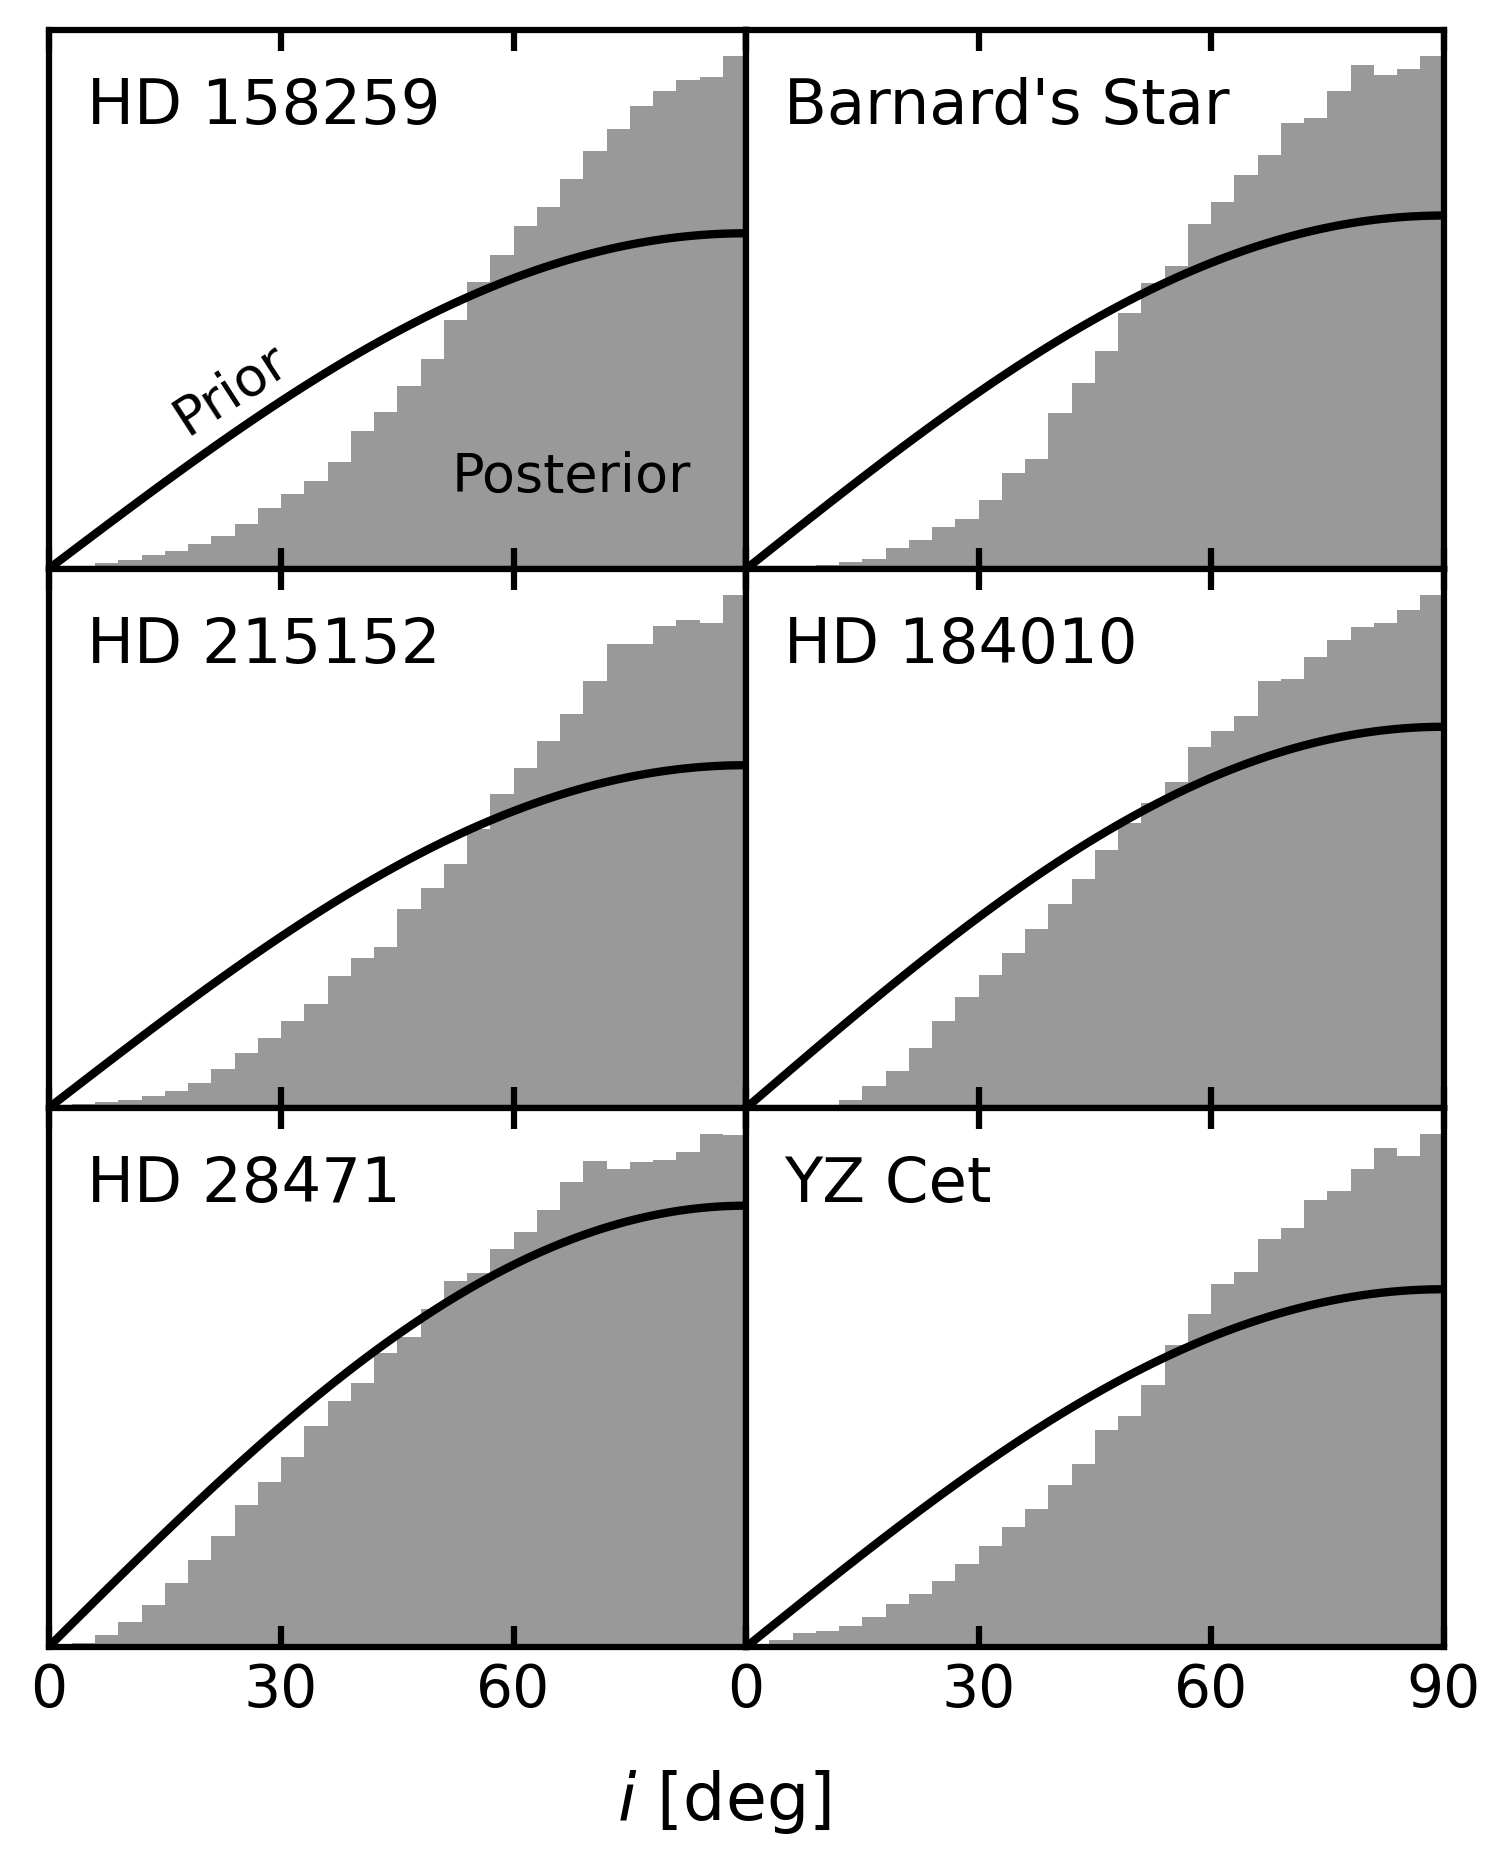
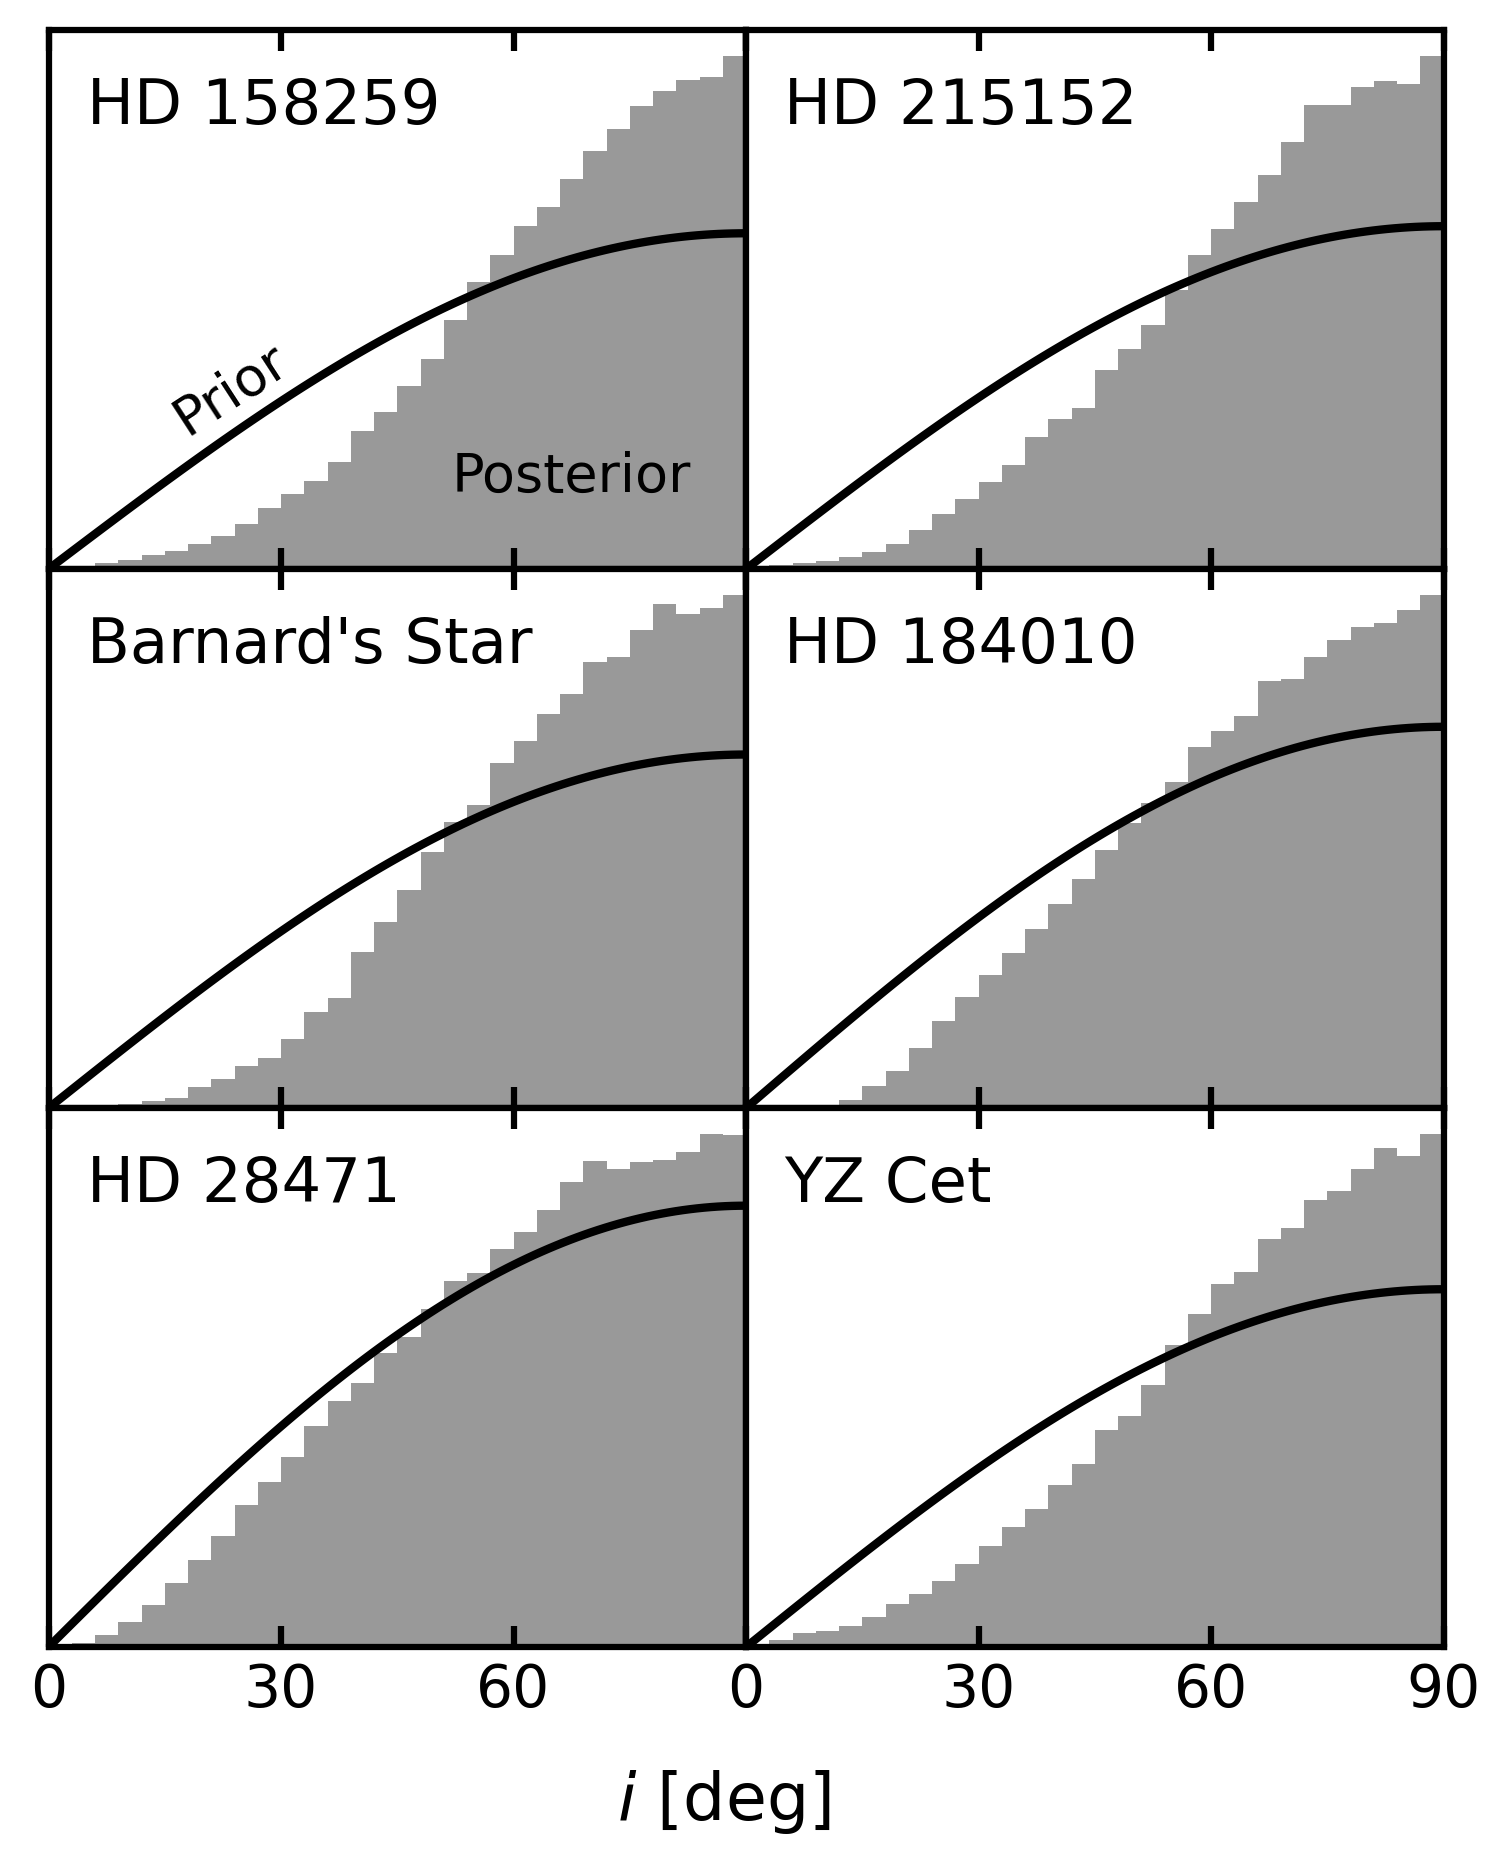
Reorder planets in some tables and figures, for consistency

diff --git a/scripts/figs/plot_allinclinations.py b/scripts/figs/plot_allinclinations.py
@@ -14,6 +14,15 @@ from cinemas import dataloading
 
 ROOT_DIR = Path(__file__).resolve().parents[2]
 
+SYSTEMS = [
+    "HD 158259",
+    "HD 215152",
+    "Barnard's star",
+    "HD 184010",
+    "HD 28471",
+    "YZ Cet",
+]
+
 
 def main() -> None:
     if len(sys.argv) > 1:
@@ -25,25 +34,18 @@ def main() -> None:
     # ==============
     # Gathering data
 
-    # Load catalogue and select systems
+    # Load catalogue
     catalogue = pd.read_csv(ROOT_DIR / "data" / "exoplanet_catalogue.csv")
     compact_multiplanet_rv_systems = dataloading.select_compact_multiplanet_rv_systems(
         catalogue
     )
     compact_multiplanet_rv_systems.sort_values(by="hostname", inplace=True)
-    system_list = (
-        compact_multiplanet_rv_systems.groupby("hostname")
-        .size()
-        .sort_values(ascending=False)
-        .index.tolist()
-    )
-    system_list = [s for s in system_list if s != "DMPP-1"]
 
     # Collect inclination samples
     results_path = ROOT_DIR / "results" / "mcmc_results"
     inclination_samples = {}
     burn_in = 2000
-    for system in system_list:
+    for system in SYSTEMS:
         posterior_file = results_path / f"{system.lower().replace(' ', '_')}.npz"
         if not posterior_file.exists():
             print(f"No posterior found for {system}, skipping...")
@@ -60,7 +62,7 @@ def main() -> None:
         3, 2, figsize=(6, 7), gridspec_kw={"hspace": 0.0, "wspace": 0.0}
     )
     x = np.linspace(0, 90, 100)
-    for system, ax in zip(system_list, axs.flatten()):
+    for system, ax in zip(SYSTEMS, axs.flatten()):
         display_name = system if system != "Barnard's star" else "Barnard's Star"
         ax.set_title(
             display_name, x=0.055, y=0.78, fontsize=15, horizontalalignment="left"

diff --git a/scripts/tables/tabulate_masslimits.py b/scripts/tables/tabulate_masslimits.py
@@ -107,9 +107,12 @@ def build_mass_limits_df(
     true_mass_prior_95s: dict[str, float],
     true_mass_posterior_95s: dict[str, float],
 ) -> pd.DataFrame:
-    df = catalogue[catalogue["hostname"].isin(systems)].sort_values(
-        ["sy_pnum", "hostname", "pl_orbper"], ascending=[False, True, True]
-    )
+    df = catalogue[catalogue["hostname"].isin(systems)]
+    # Sort by systems
+    df["hostname"] = pd.Categorical(df["hostname"], categories=systems, ordered=True)
+    df.sort_values(by=["hostname", "pl_orbper"], inplace=True)
+    # Convert the Categorical back to a string type for the DataFrame
+    df["hostname"] = df["hostname"].astype(str)
 
     m95_df = pd.DataFrame(
         columns=[
@@ -192,10 +195,10 @@ def main() -> None:
     )
 
     catalogue = load_catalogue()
-    systems = [
+    SYSTEMS = [
         "HD 158259",
-        "Barnard's star",
         "HD 215152",
+        "Barnard's star",
         "HD 184010",
         "HD 28471",
         "YZ Cet",
@@ -203,11 +206,11 @@ def main() -> None:
     results_dir = ROOT_DIR / "results" / "mcmc_results"
 
     true_mass_prior_95s, true_mass_posterior_95s = collect_mass_limit_maps(
-        catalogue, systems, results_dir, burn_in=2000
+        catalogue, SYSTEMS, results_dir, burn_in=2000
     )
 
     m95_df = build_mass_limits_df(
-        catalogue, systems, true_mass_prior_95s, true_mass_posterior_95s
+        catalogue, SYSTEMS, true_mass_prior_95s, true_mass_posterior_95s
     )
     m95_df.to_csv(ROOT_DIR / "tex" / "tables" / "masses95.csv", index=False)
 

diff --git a/scripts/tables/tabulate_systems.py b/scripts/tables/tabulate_systems.py
@@ -12,6 +12,15 @@ from cinemas.dataloading import select_compact_multiplanet_rv_systems
 
 ROOT_DIR = Path(__file__).resolve().parents[2]
 
+SYSTEMS = [
+    "HD 158259",
+    "HD 215152",
+    "Barnard's star",
+    "HD 184010",
+    "HD 28471",
+    "YZ Cet",
+]
+
 
 def load_catalogue() -> pd.DataFrame:
     return pd.read_csv(ROOT_DIR / "data" / "exoplanet_catalogue.csv")
@@ -24,11 +33,12 @@ def filter_refuted_planets(catalogue: pd.DataFrame) -> pd.DataFrame:
 
 def build_system_summary_df(catalogue: pd.DataFrame) -> pd.DataFrame:
     compact_systems = select_compact_multiplanet_rv_systems(catalogue)
-    compact_systems.sort_values(
-        by=["sy_pnum", "hostname", "pl_orbper"],
-        inplace=True,
-        ascending=[False, True, True],
+    compact_systems["hostname"] = pd.Categorical(
+        compact_systems["hostname"], categories=SYSTEMS, ordered=True
     )
+    compact_systems.sort_values(by=["hostname", "pl_orbper"], inplace=True)
+    # Convert the Categorical back to a string type for the DataFrame
+    compact_systems["hostname"] = compact_systems["hostname"].astype(str)
 
     systems_df = pd.DataFrame(
         columns=["star_name", "star_mass", "planet_name", "period", "mmin"]

diff --git a/tex/tables/masses95.tex b/tex/tables/masses95.tex
@@ -9,15 +9,15 @@ d & 5.41 & 16.73 & 9.74 & $-$41.8 \\
 e & 6.08 & 18.88 & 11.13 & $-$41.0 \\
 f & 6.14 & 19.27 & 11.48 & $-$40.4 \\
 \hline
-Barnard's Star d & 0.26 & 0.81 & 0.45 & $-$44.6 \\
-b & 0.30 & 0.92 & 0.51 & $-$44.5 \\
-c & 0.34 & 1.03 & 0.57 & $-$44.6 \\
-e & 0.19 & 0.60 & 0.34 & $-$42.9 \\
-\hline
 HD 215152 b & 1.82 & 5.85 & 3.75 & $-$35.8 \\
 c & 1.72 & 5.69 & 3.67 & $-$35.5 \\
 d & 2.80 & 9.00 & 5.11 & $-$43.3 \\
 e & 2.88 & 9.72 & 6.55 & $-$32.7 \\
+\hline
+Barnard's Star d & 0.26 & 0.81 & 0.45 & $-$44.6 \\
+b & 0.30 & 0.92 & 0.51 & $-$44.5 \\
+c & 0.34 & 1.03 & 0.57 & $-$44.6 \\
+e & 0.19 & 0.60 & 0.34 & $-$42.9 \\
 \hline
 HD 184010 b & 98.53 & 303.87 & 191.77 & $-$36.9 \\
 c & 95.35 & 295.49 & 189.58 & $-$35.8 \\

diff --git a/tex/tables/systems.tex b/tex/tables/systems.tex
@@ -9,15 +9,15 @@ HD 158259 & b & 2.18 & 2.22 \\
  & e & 7.95 & 6.08 \\
  & f & 12.03 & 6.14 \\
 \hline
-Barnard's Star & d & 2.34 & 0.26 \\
-($0.16~M_{\sun}$) & b & 3.15 & 0.30 \\
- & c & 4.12 & 0.34 \\
- & e & 6.74 & 0.19 \\
-\hline
 HD 215152 & b & 5.76 & 1.82 \\
 ($0.77~M_{\sun}$) & c & 7.28 & 1.72 \\
  & d & 10.86 & 2.80 \\
  & e & 25.20 & 2.88 \\
+\hline
+Barnard's Star & d & 2.34 & 0.26 \\
+($0.16~M_{\sun}$) & b & 3.15 & 0.30 \\
+ & c & 4.12 & 0.34 \\
+ & e & 6.74 & 0.19 \\
 \hline
 HD 184010 & b & 286.60 & 98.53 \\
 ($1.35~M_{\sun}$) & c & 484.30 & 95.35 \\

diff --git a/scripts/figs/plot_hillstability.py b/scripts/figs/plot_hillstability.py
@@ -18,8 +18,8 @@ ROOT_DIR = Path(__file__).resolve().parents[2]
 
 SYSTEMS = [
     "HD 158259",
-    "Barnard's star",
     "HD 215152",
+    "Barnard's star",
     "HD 184010",
     "HD 28471",
     "YZ Cet",
